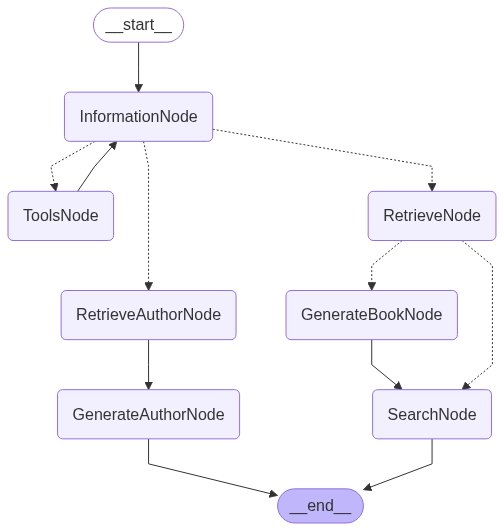
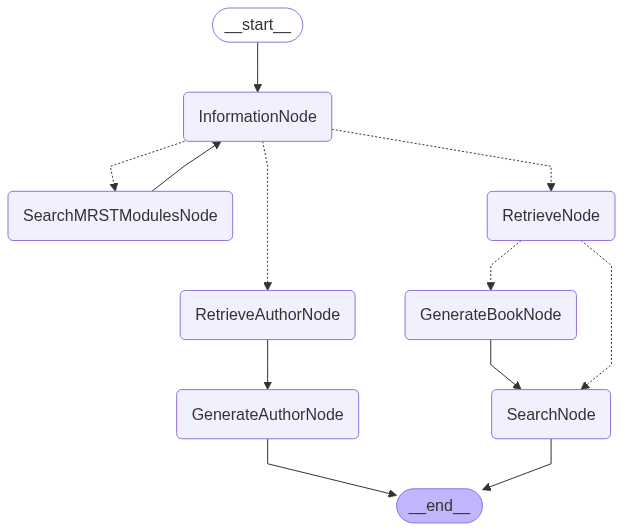
streamlit app

diff --git a/graph.py b/graph.py
@@ -1,5 +1,4 @@
 from langchain_openai import ChatOpenAI
-from langchain_core.messages import BaseMessage
 from langgraph.graph import StateGraph, START, END
 from pydantic import BaseModel, Field
 from typing_extensions import TypedDict
@@ -18,7 +17,7 @@ load_dotenv()
 openai_api_key = os.getenv("OPENAI_API_KEY")
 langchain_openai_api_key = os.getenv("LANGCHAIN_OPENAI_API_KEY")
 
-strong_client = ChatOpenAI(model="gpt-4o", temperature=0.0, openai_api_key=langchain_openai_api_key)
+strong_client = ChatOpenAI(model="gpt-4o-mini", temperature=0.0, openai_api_key=langchain_openai_api_key)
 weak_client = ChatOpenAI(model="gpt-3.5-turbo", temperature=0.0, openai_api_key = langchain_openai_api_key)
 
 vector_embedding_model = SentenceTransformer('sentence-transformers/all-mpnet-base-v2')
@@ -27,23 +26,27 @@ vector_embedding_model = SentenceTransformer('sentence-transformers/all-mpnet-ba
 Helper classes -- Called with client.with_structured_output(ClassName)
 """
 
-class QueryDescription(BaseModel):
+class QueryDescriptionWithTools(BaseModel):
     keywords: List[str] = Field(description = "Keywords related to the users query")
     authors: List[str] = Field(description = "The authors mentioned in the users query")
     problem_description: str = Field(description = "The users problem compacted into one sentence")
     tools: bool = Field(description = "Wether or not should call tools")
     tools_input: str = Field(description = "The input to the tool")
 
+class QueryDescription(BaseModel):
+    keywords: List[str] = Field(description = "Keywords related to the users query")
+    authors: List[str] = Field(description = "The authors mentioned in the users query")
+    problem_description: str = Field(description = "The users problem compacted into one sentence")
+
 class State(TypedDict):
     query: str
-    query_description : QueryDescription
+    query_description : QueryDescriptionWithTools
     attempts: int
     df: pd.DataFrame
     response: str
     figures: List[Figure]
     tools_calls: List[tuple[str, List[str]]]
-    visited_links: List[str]
-    n_tool_calls: int
+    visited_link: str
 
 """
 Helper functions
@@ -184,12 +187,13 @@ def InformationNode(state: State) -> State:
         """},
         {"role": "user", "content": query}]
 
-        query_description = strong_client.with_structured_output(QueryDescription).invoke(prompt)
+        query_description = strong_client.with_structured_output(QueryDescriptionWithTools).invoke(prompt)
 
         return {"query_description": query_description}
 
     else:
         tools_calls = state.get('tools_calls')
+
         prompt = [{"role": "system", "content": f"""
         You are an assistant for the Matlab Reservoir Toolbox developed by SINTEF.
         You are going to extract keywords, authors and a problem description from the user query.
@@ -197,33 +201,32 @@ def InformationNode(state: State) -> State:
         so you should be very specific when generating keywords. For example, do NOT include keywords like
         'reservoir simulation' or 'numerical simulation'.
                    
-        You can use the tool "web_search_mrst":
+        You have used the tool "web_search_mrst":
         name: {web_search_mrst.name}
         description: {web_search_mrst.description}
 
-        You have already generated keywords, and called the tool once.
-        Input should be one of the links found in your latest tool call.
-        Here is your latest answer, and here is your latest tool call.
-
-        query_description:
-        {query_description}
+        Here is your tool call.
 
         tools_calls:
-        {tools_calls}
+        {tools_calls[0]}
 
         """},
         {"role": "user", "content": query}]
 
         response = strong_client.with_structured_output(QueryDescription).invoke(prompt)
-        response.authors = query_description.authors
-        response.keywords = response.keywords + query_description.keywords
+        return_val = QueryDescriptionWithTools(
+            authors = query_description.authors,
+            keywords = list(set(response.keywords + query_description.keywords)),
+            problem_description = response.problem_description,
+            tools = False,
+            tools_input = ""
+            )
 
-        return {"query_description": response}
+        return {"query_description": return_val}
 
-def ToolsNode(state: State) -> State:
-    n_tool_calls = state.get('n_tool_calls') if state.get('n_tool_calls') != None else 0
+def SearchMRSTModulesNode(state: State) -> State:
     link = state.get('query_description').tools_input
-    return {"tools_calls": [web_search_mrst.invoke(input = link)], "visited_links": [link], 'n_tool_calls': n_tool_calls+1}
+    return {"tools_calls": [web_search_mrst.invoke(input = link)], "visited_link": link}
 
 def RetrieveNode(state: State) -> State:
     df = pd.read_pickle('book_embeddings.pkl')
@@ -296,16 +299,11 @@ def SearchNode(state: State) -> State:
 Routers
 """
 
-def RetrievalRouter(state: State) -> Literal["ToolsNode","RetrieveNode","RetrieveAuthorNode"]:
+def RetrievalRouter(state: State) -> Literal["SearchMRSTModulesNode","RetrieveNode","RetrieveAuthorNode"]:
     queryDescription = state.get('query_description')
     if queryDescription.tools:
-        if state.get('visited_links') == None:
-            return "ToolsNode"
-        if state.get('n_tool_calls') == None:
-            return "ToolsNode"
-        if queryDescription.tools_input not in state.get('visited_links') and state.get('n_tool_calls')<3:
-            return "ToolsNode"
-    
+        return "SearchMRSTModulesNode"
+
     if queryDescription.authors:
         return "RetrieveAuthorNode"
     else:
@@ -324,7 +322,7 @@ Setting up the graph
 graph_builder = StateGraph(State)
 
 graph_builder.add_node("InformationNode", InformationNode)
-graph_builder.add_node("ToolsNode", ToolsNode)
+graph_builder.add_node("SearchMRSTModulesNode", SearchMRSTModulesNode)
 graph_builder.add_node("RetrieveNode", RetrieveNode)
 graph_builder.add_node("GenerateBookNode", GenerateBookNode)
 graph_builder.add_node("RetrieveAuthorNode", RetrieveAuthorNode)
@@ -332,9 +330,9 @@ graph_builder.add_node("GenerateAuthorNode", GenerateAuthorNode)
 graph_builder.add_node("SearchNode", SearchNode)
 
 graph_builder.add_edge(START, "InformationNode")
-graph_builder.add_conditional_edges("InformationNode", RetrievalRouter, {"ToolsNode": "ToolsNode", "RetrieveNode": "RetrieveNode", "RetrieveAuthorNode": "RetrieveAuthorNode"})
+graph_builder.add_conditional_edges("InformationNode", RetrievalRouter, {"SearchMRSTModulesNode": "SearchMRSTModulesNode", "RetrieveNode": "RetrieveNode", "RetrieveAuthorNode": "RetrieveAuthorNode"})
 graph_builder.add_conditional_edges("RetrieveNode", BookRouter, {"GenerateBookNode":"GenerateBookNode", "SearchNode":"SearchNode"})
-graph_builder.add_edge("ToolsNode", "InformationNode")
+graph_builder.add_edge("SearchMRSTModulesNode", "InformationNode")
 graph_builder.add_edge("RetrieveAuthorNode", "GenerateAuthorNode")
 graph_builder.add_edge("GenerateBookNode", "SearchNode")
 graph_builder.add_edge("SearchNode", END)

diff --git a/app.py b/app.py
@@ -1,0 +1,54 @@
+import streamlit as st
+from graph import *
+import io
+
+st.set_page_config(layout = "wide", page_title = "MRST Assistant", page_icon = "mrst_logo.png")
+
+mrst_logo, _, title, _, ai_logo = st.columns([2, 3, 4, 3, 1])
+
+with mrst_logo:
+    st.image("mrst_logo.png")
+
+with title:
+    st.title("Virtual assistant")
+
+with ai_logo:
+    st.image("ai_logo.png")
+
+if "response" not in st.session_state:
+    st.session_state.response = ""
+
+if "figures" not in st.session_state:
+    st.session_state.figures = [""]
+
+def run_graph():
+    query = st.session_state.query
+    response_area.text("...")
+
+    state = graph.invoke(State(query = query))
+
+    st.session_state.response = state.get('response')
+
+    figures = state.get('figures')
+    svg_figures = []
+
+    if figures != None:
+        for fig in figures:
+            buf = io.StringIO()
+            fig.savefig(buf, format = "svg")
+            svg_figures.append(buf.getvalue())
+            buf.close()
+
+    st.session_state.figures = svg_figures
+
+
+query = st.text_input("What can I help you with? ", "", key = "query", on_change=run_graph)
+response_area = st.text("")
+response_figures = st.markdown("")
+response_area.text(st.session_state.response)
+
+svg_content = ""
+for svg_fig in st.session_state.figures:
+    svg_content += svg_fig
+
+response_figures.markdown(svg_content, unsafe_allow_html=True)

diff --git a/tools/sintef_search_tool.py b/tools/sintef_search_tool.py
@@ -5,7 +5,7 @@ from typing import List
 
 @tool
 def web_search_mrst(filename: str) -> tuple[str, List[str]]:
-    """Scrape a SINTEF MRST website with filename, and return content + explicit links to other sites"""
+    """Scrape a SINTEF MRST website with filename, and return content and explicit links to other mrst sites"""
     try:
         response = requests.get(filename)
         soup = BeautifulSoup(response.content, 'html.parser')
